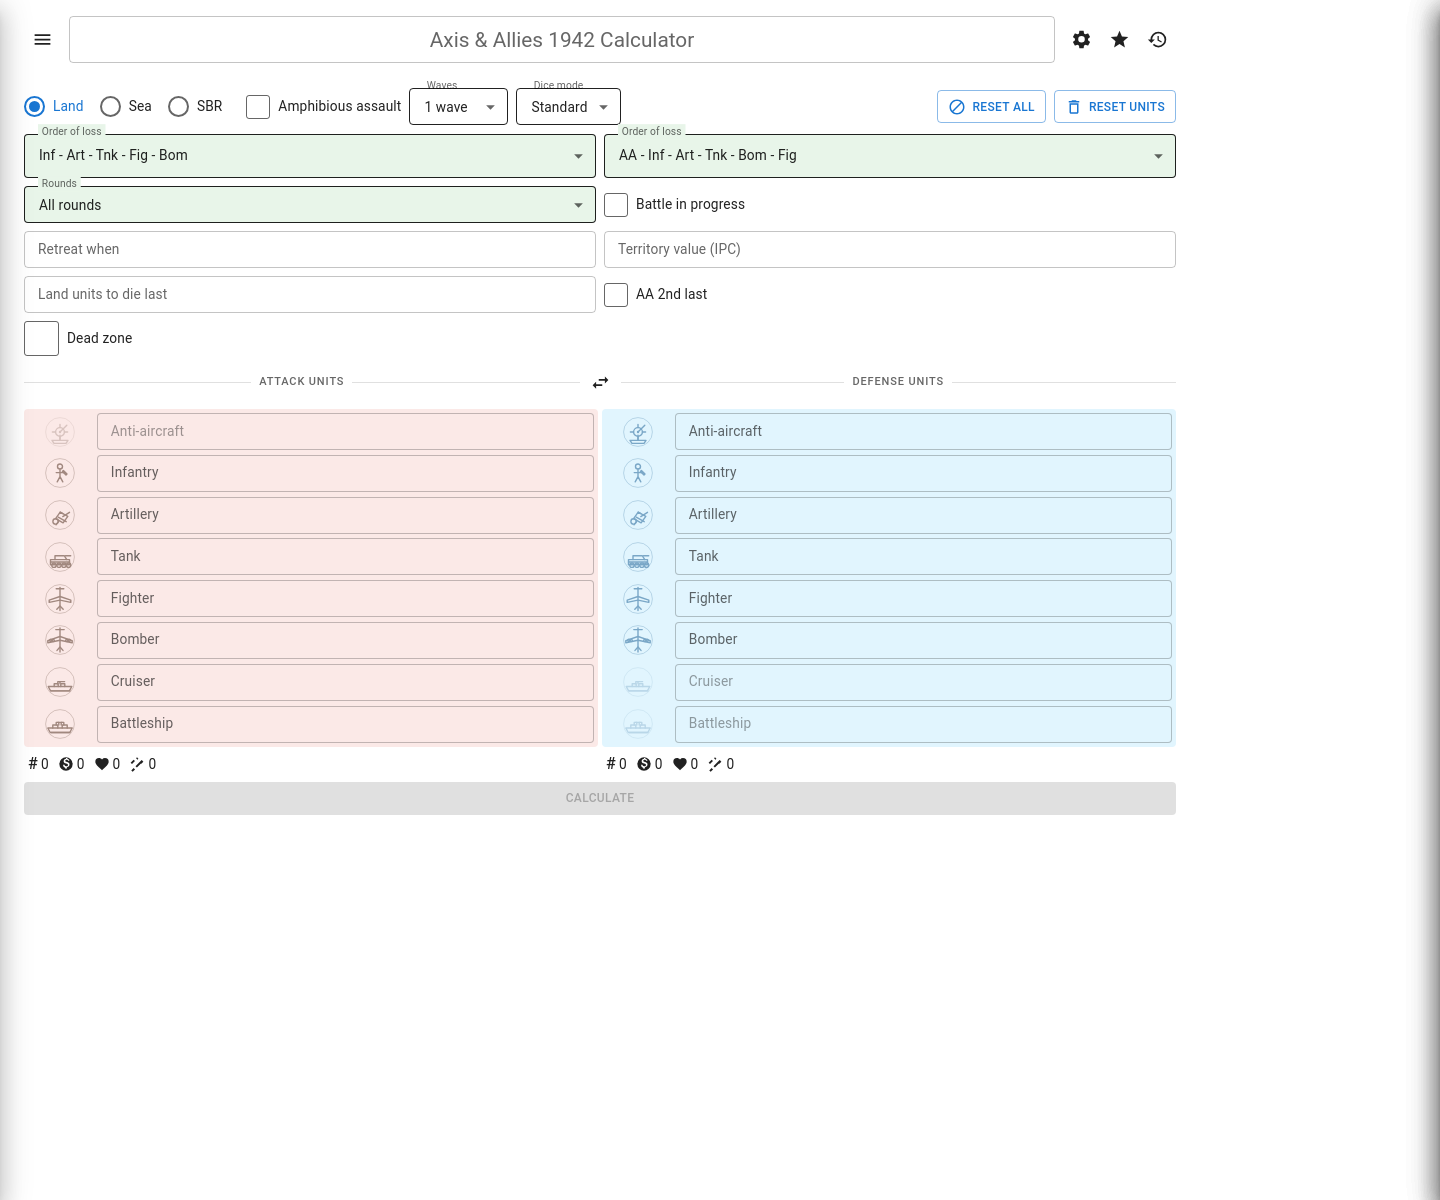
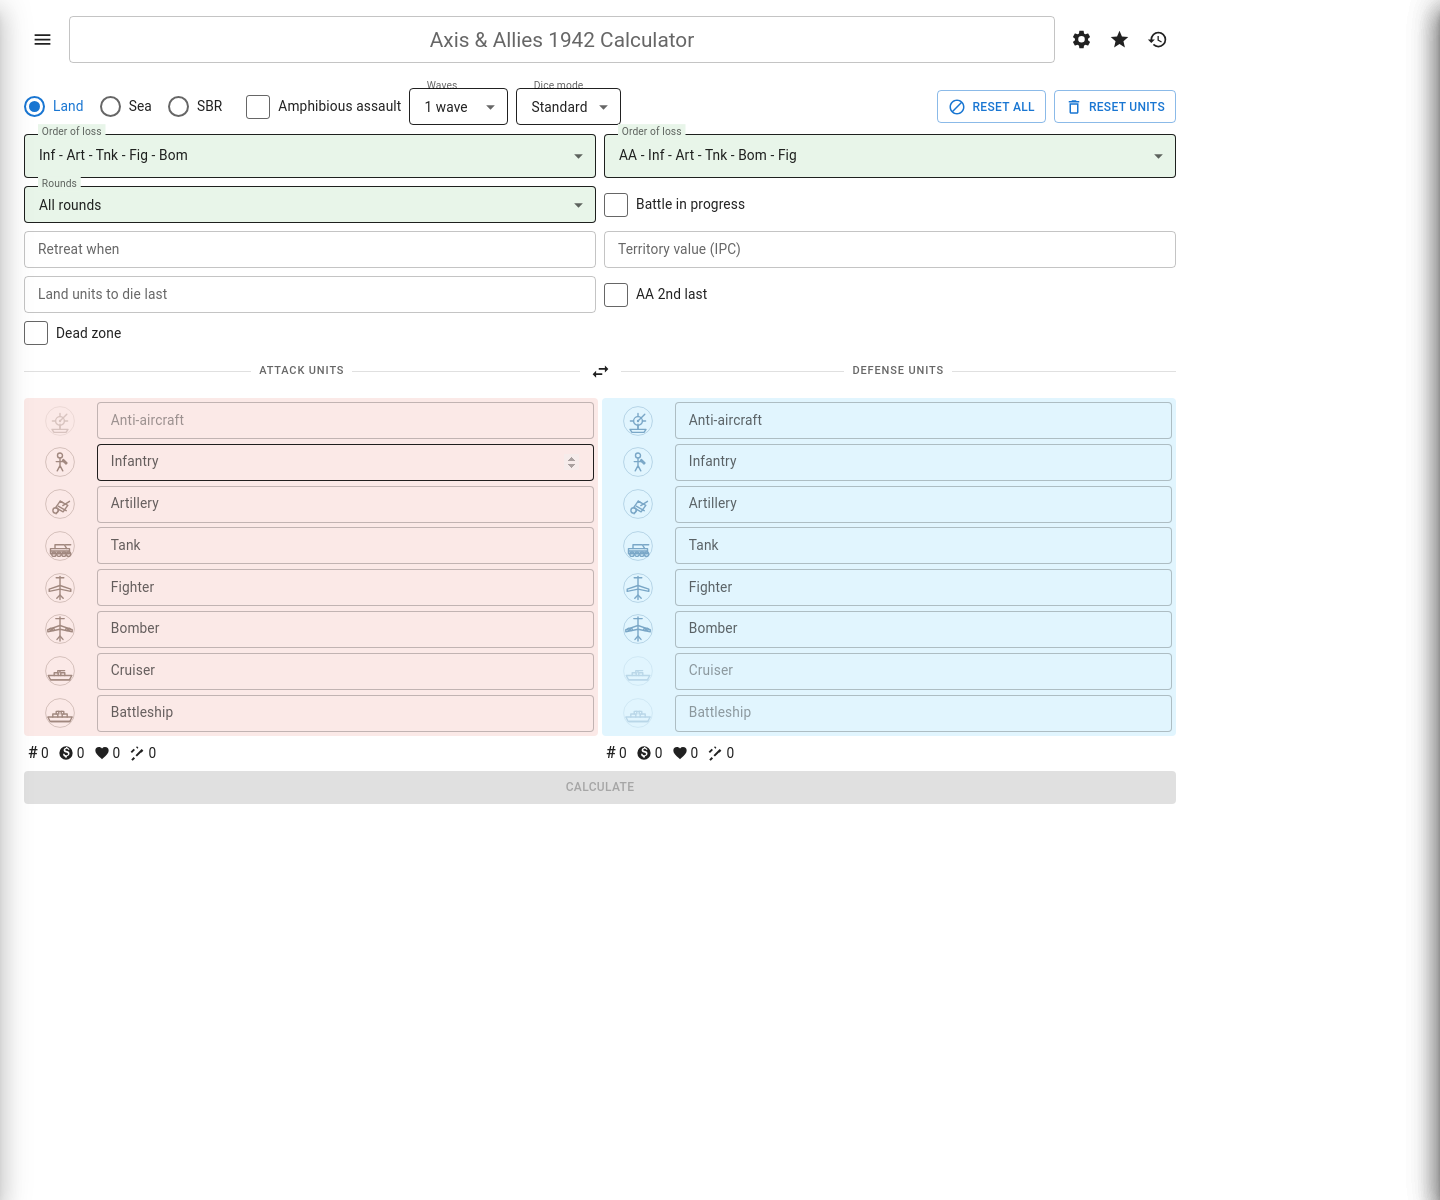
feat(redesign): refine desktop and naval layouts

Changed region(s): [[0.0, 0.3083, 0.8125, 0.6783], [0.1875, 0.3083, 0.25, 0.3392], [0.0312, 0.2775, 0.0938, 0.3083]]

diff --git a/frontend/redesign/src/components/redesign/ConfigSection.tsx b/frontend/redesign/src/components/redesign/ConfigSection.tsx
@@ -85,6 +85,18 @@ export function ConfigSection({
   );
   const waves = Array.from({ length: numWaves }, (_, index) => index);
 
+  const retreatRow = (
+    <div className="beta-config-row" style={style}>
+      {waves.map((wave) => (
+        <RetreatField
+          key={`att-retreat-${wave}`}
+          config={waveConfigs[wave]}
+          onClick={(rect) => onRetreatClick(wave, rect)}
+        />
+      ))}
+    </div>
+  );
+
   return (
     <div className="beta-config-grid">
       <div className="beta-config-side">
@@ -115,15 +127,7 @@ export function ConfigSection({
           ))}
         </div>
 
-        <div className="beta-config-row" style={style}>
-          {waves.map((wave) => (
-            <RetreatField
-              key={`att-retreat-${wave}`}
-              config={waveConfigs[wave]}
-              onClick={(rect) => onRetreatClick(wave, rect)}
-            />
-          ))}
-        </div>
+        {mode === 'land' ? retreatRow : null}
 
         {mode === 'land' ? (
           <>
@@ -148,11 +152,11 @@ export function ConfigSection({
                 />
               ))}
             </div>
-            <CheckboxControl large label="Dead zone" checked={isDeadzone} onChange={onDeadzone} />
+            <CheckboxControl label="Dead zone" checked={isDeadzone} onChange={onDeadzone} />
           </>
         ) : (
           <>
-            <div className="beta-config-row checkbox-row" style={style}>
+            <div className="beta-config-row checkbox-row config-row--tall" style={style}>
               {waves.map((wave) => (
                 <CheckboxControl
                   key={`att-sub-${wave}`}
@@ -172,6 +176,7 @@ export function ConfigSection({
                 />
               ))}
             </div>
+            {retreatRow}
           </>
         )}
       </div>

diff --git a/frontend/redesign/src/beta.css b/frontend/redesign/src/beta.css
@@ -697,16 +697,41 @@ button {
   background: var(--beta-success-bg);
 }
 
-/* Hide number spinners */
+/* Hide number spinners by default. Desktop unit counts opt back in below. */
 .field__input[type='number']::-webkit-outer-spin-button,
 .field__input[type='number']::-webkit-inner-spin-button {
   appearance: none;
+  -webkit-appearance: none;
   margin: 0;
 }
 
 .field__input[type='number'] {
   appearance: textfield;
+  -webkit-appearance: textfield;
   -moz-appearance: textfield;
+}
+
+/* Desktop army counts keep the native increment/decrement controls. */
+@media (min-width: 600px) {
+  .unit-row .field__input[type='number'] {
+    appearance: auto;
+    -webkit-appearance: auto;
+    -moz-appearance: auto;
+  }
+
+  .unit-row .field__input[type='number']::-webkit-outer-spin-button,
+  .unit-row .field__input[type='number']::-webkit-inner-spin-button {
+    appearance: auto;
+    -webkit-appearance: auto;
+    opacity: 0;
+    margin: 0;
+    transition: opacity 120ms;
+  }
+
+  .unit-row .field__input[type='number']:hover::-webkit-outer-spin-button,
+  .unit-row .field__input[type='number']:hover::-webkit-inner-spin-button {
+    opacity: 1;
+  }
 }
 
 /* ------------------------------------------------------------------ */
@@ -1037,6 +1062,27 @@ button {
 
 .results {
   margin-top: 12px;
+}
+
+.results__tables {
+  display: flex;
+  flex-direction: column;
+  gap: 12px;
+  margin-top: 12px;
+}
+
+.results__tables .casualty-card {
+  margin-top: 0;
+}
+
+@media (min-width: 1000px) {
+  .beta-container--lg .results__tables,
+  .beta-container--xl .results__tables {
+    display: grid;
+    grid-template-columns: minmax(0, 1fr) minmax(0, 1fr);
+    gap: 8px;
+    align-items: start;
+  }
 }
 
 .overview {

diff --git a/frontend/redesign/src/components/redesign/Results.tsx b/frontend/redesign/src/components/redesign/Results.tsx
@@ -290,8 +290,10 @@ export function Results({
   return (
     <div className="results">
       <Overview result={result} numWaves={numWaves} settings={settings} />
-      <CasualtyTable side="attack" data={result.casualtiesInfo?.attack} settings={settings} />
-      <CasualtyTable side="defense" data={result.casualtiesInfo?.defense} settings={settings} />
+      <div className="results__tables">
+        <CasualtyTable side="attack" data={result.casualtiesInfo?.attack} settings={settings} />
+        <CasualtyTable side="defense" data={result.casualtiesInfo?.defense} settings={settings} />
+      </div>
     </div>
   );
 }

diff --git a/frontend/redesign/README.md b/frontend/redesign/README.md
@@ -37,7 +37,8 @@ npm run preview -- --port 5175
   attacker/defender IPC, attacker profit, 95/68/50/32/5% confidence chips, and
   full attacker/defender casualty tables. The green “or better” and red “or
   worse” confidence intervals are shown in the tables (plus exact probability
-  on desktop; mobile keeps the confidence intervals only).
+  on desktop; mobile keeps the confidence intervals only). At Large and Extra
+  large widths, the attacker and defender tables sit side by side.
 - **Drawers** — menu, settings, common battles, history.
 - **Settings** — IPC display (absolute/ROI), hide unlikely outcomes (including
   `< 5%`), history sort/show/hide-unnamed, width (Small / Medium / Large /

diff --git a/frontend/redesign/AGENTS.md b/frontend/redesign/AGENTS.md
@@ -38,6 +38,7 @@ The app is served at **http://127.0.0.1:5174/aacalc2/redesign/**.
   unit row; multi-wave mobile drops the icon column entirely.
 - Results always show the green “or better” / red “or worse” confidence
   intervals (plus exact probability on desktop). There is no simple-mode table.
+  At Large/Extra large widths the attacker and defender tables sit side by side.
 - Width modes are Small (600), Medium (900), Large (1200) and Extra large
   (1536). At Large and Extra large, Amphibious/Waves/Dice merge into the mode
   row and Reset All/Reset Units become icon+text buttons; smaller layouts stack
